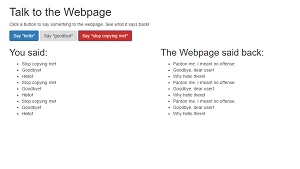
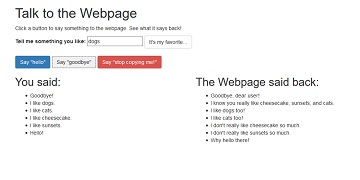
adds some array featues to give chatbot a personality

Changed region(s): [[0.54, 0.2663, 0.93, 0.7988], [0.03, 0.0296, 0.51, 0.2663], [0.03, 0.2959, 0.45, 0.7692]]

diff --git a/index.html b/index.html
@@ -4,7 +4,7 @@
     <meta charset="utf-8">
     <meta http-equiv="X-UA-compatible">
     <meta name="viewport" value="width=device-width, initial-scale=1">
-    <link href="https://maxcdn.bootstrapcdn.com/bootstrap/3.3.6/css/bootstrap.min.css" rel="stylesheet">
+    <link href="css/bootstrap.min.css" rel="stylesheet">
     <link href="css/style.css" rel="stylesheet">
     <script src="js/jquery-1.12.2.js"></script>
     <script src="js/bootstrap.min.js"></script>
@@ -15,9 +15,15 @@
     <div class="container">
       <h1>Talk to the Webpage</h1>
       <p>Click a button to say something to the webpage. See what it says back!</p>
-      <button class="btn btn-primary" id="hello">Say "hello"</button>
-      <button class="btn btn-inverse" id="goodbye">Say "goodbye"</button>
-      <button class="btn btn-danger" id="stop">Say "stop copying me!"</button>
+      <!-- <form id="conversation"> need prevent default or something to use as form -->
+        <label for="favorite">Tell me something you like: </label>
+        <input type="text" id="favorite"></input>
+        <button class="btn btn-default" id="likes">It's my favorite...</button>
+        <br><br>
+        <button class="btn btn-primary" id="hello">Say "hello"</button>
+        <button class="btn btn-inverse" id="goodbye">Say "goodbye"</button>
+        <button class="btn btn-danger" id="stop">Say "stop copying me!"</button>
+      <!-- </form> -->
       <div class="row">
         <div class="col-xs-6">
           <h2>You said: </h2>

diff --git a/js/scripts.js b/js/scripts.js
@@ -16,5 +16,24 @@ $(document).ready(function() {
     $("ul#user").prepend("<li>Stop copying me!</li>");
     $("ul#webpage").prepend("<li>Pardon me. I meant no offense.</li>");
   });
+  var yourFavorites = [];
+  $("button#likes").click(function() {
+    var myFavorites = ["cats", "dogs", "ice cream", "toys", "cars", "music", "learning stuff"];
+    var yourFavorite = $("input#favorite").val();
+    yourFavorites.push(yourFavorite);
+    $("ul#user").prepend("<li>I like " + yourFavorite + ".</li>");
+    if(myFavorites.includes(yourFavorite)) {
+      $("ul#webpage").prepend("<li>I like " + $("input#favorite").val() + " too!</li>");
+    } else {
+      $("ul#webpage").prepend("<li>I don't really like " + $("input#favorite").val() + " so much.</li>");
+    }
+    if(yourFavorites.length > 3) {
+      var thingsIKnow=[];
+      thingsIKnow.push(yourFavorites[1], yourFavorites[0], yourFavorites[2]);
+      $("ul#webpage").prepend("<li>I know you really like " + thingsIKnow[0] + ", " + thingsIKnow[1] + ", and " + thingsIKnow[2] + ".</li>");
+    }
+
+  });
+
 
 });

diff --git a/README.md b/README.md
@@ -1,12 +1,15 @@
 # :lips::speech_balloon: [Chatbot](http://karenfreemansmith.github.io/chatbot) :hear_no_evil::see_no_evil::speak_no_evil:
 ![project screenshot](/img/screenshot.jpg)
 
-__Version 1: March 29, 2016__
+__Version 2: April 11, 2016__
 
 ## by [Karen Freeman-Smith](http://karenfreemansmith.github.io)
 
 ### Description
 __*A webpage that talks back to the visitor*__
+
+New feature - chatbot has a personality! See if you have anything in common
+by telling her your favorite things.
 
 ### Setup/Installation
 *None required. Clone or download and extract to use*
